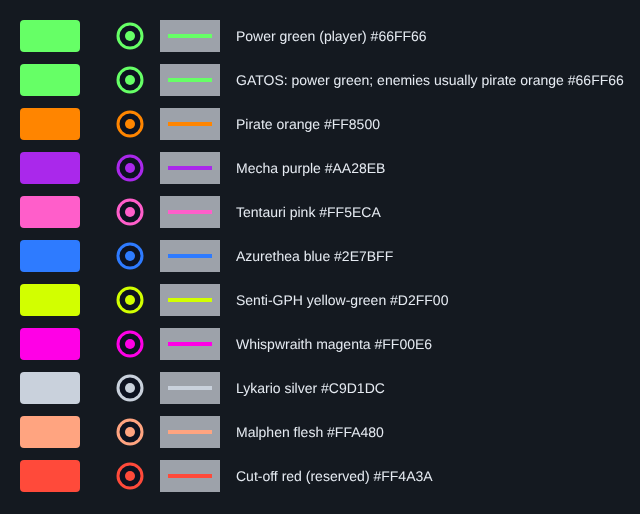
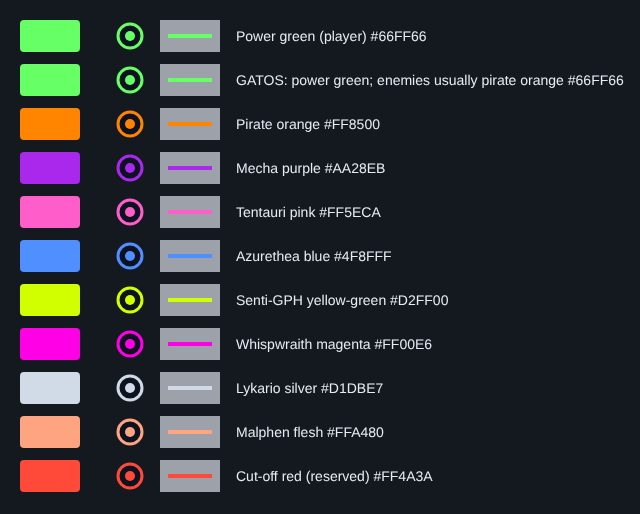
Power colours checked against power green: Azurethea blue and Lykario silver brightened
Claude-Session: https://claude.ai/code/session_01WZGEuQ1NEBVidT9MSQSZ2z

diff --git a/docs/art/palette.py b/docs/art/palette.py
@@ -7,10 +7,10 @@ PIRATE_POWER_ORANGE = "#ff8500"   # as vivid as power green: the most saturated 
 MECHA_POWER_PURPLE = "#aa28eb"   # the Mecha's accent: visor, chest lights, their power
 TENTAURI_POWER_PINK = "#ff5eca"   # the Tentauri's power colour, "bubblegum matched"
 # race power colours picked by heromedel (2026-10-26); the exact values are proposals, see palette.md
-AZURETHEA_POWER_BLUE = "#2e7bff"
+AZURETHEA_POWER_BLUE = "#4f8fff"
 SENTI_POWER_YELLOW_GREEN = "#d2ff00"
 WHISPWRAITH_POWER_MAGENTA = "#ff00e6"
-LYKARIO_POWER_SILVER = "#c9d1dc"
+LYKARIO_POWER_SILVER = "#d1dbe7"
 MALPHEN_POWER_FLESH = "#ffa480"
 
 # the Mecha crew palette (mecha/crew/), darkest first

diff --git a/docs/art/palette.md b/docs/art/palette.md
@@ -9,12 +9,19 @@ one place.
 | Pirate power orange | `#FF8500` | The orange for powered pirate systems: made to look as vivid as power green (the most saturated orange a screen can show, at the lightness nearest power green's). Replaces `#FFB070`, which matched in numbers but looked pale | **Decided (2026-10-25)** |
 | Mecha power purple | `#AA28EB` | The Mecha's accent: visor, chest lights, and the start of the power pulse when they power a system | **Decided (2026-10-25)** |
 | Tentauri power pink | `#FF5ECA` | The Tentauri's power colour ("bubblegum matched", liked by heromedel) | **Likely (2026-10-26)** |
-| Azurethea power blue | `#2E7BFF` | The Azurethea's power colour | Blue: **Likely (2026-10-26)**; the value: **Ai-Generated-Proposal** |
+| Azurethea power blue | `#4F8FFF` | The Azurethea's power colour | Blue: **Likely (2026-10-26)**; the value: **Ai-Generated-Proposal** |
 | Senti-GPH power yellow-green | `#D2FF00` | The Senti-GPH's power colour; kept yellow enough to tell from power green | Yellow-green: **Likely (2026-10-26)**; the value: **Ai-Generated-Proposal** |
 | Whispwraith power magenta | `#FF00E6` | The Whispwraith's power colour; the closest of all to another race's (between Tentauri pink and Mecha purple) | Magenta: **Proposed (2026-10-26)**; the value: **Ai-Generated-Proposal** |
-| Lykario power silver | `#C9D1DC` | The Lykario's power colour; faint on light floors, so it may need a dark outline there | Silver: **Likely (2026-10-26)**; the value: **Ai-Generated-Proposal** |
+| Lykario power silver | `#D1DBE7` | The Lykario's power colour; faint on light floors, so it may need a dark outline there | Silver: **Likely (2026-10-26)**; the value: **Ai-Generated-Proposal** |
 | Malphen power flesh | `#FFA480` | The Malphen's power colour, a fleshy pink-orange, kept pale so it doesn't read as cut-off red or pirate orange | Fleshy pink-orange: **Likely (2026-10-26)**; the value: **Ai-Generated-Proposal** |
 
+- **Checked against power green (2026-10-26):** power green has a perceived lightness of 0.89 and saturation (chroma)
+  of 0.23 (OKLCH). Each race colour is the most saturated its hue allows at a lightness that still reads as lit:
+  pirate orange 0.74 / 0.18, Tentauri pink 0.72 / 0.22, Mecha purple 0.58 / 0.27, Azurethea blue 0.66 / 0.18
+  (brightened from `#2E7BFF`, which was too dark), Senti-GPH yellow-green 0.94 / 0.23, Whispwraith magenta
+  0.69 / 0.31, Malphen flesh 0.80 / 0.12 (the most saturation a pale pink-orange can have; it stays pale so it
+  doesn't read as cut-off red or pirate orange), Lykario silver 0.89 / 0.02 (matched to power green's lightness;
+  silver is grey by nature, so it reads as lit by its brightness).
 - **Likely (2026-10-26, heromedel):** GATOS ships use power green, player and enemy alike; GATOS enemies are
   typically pirates, shown in pirate power orange.
 
